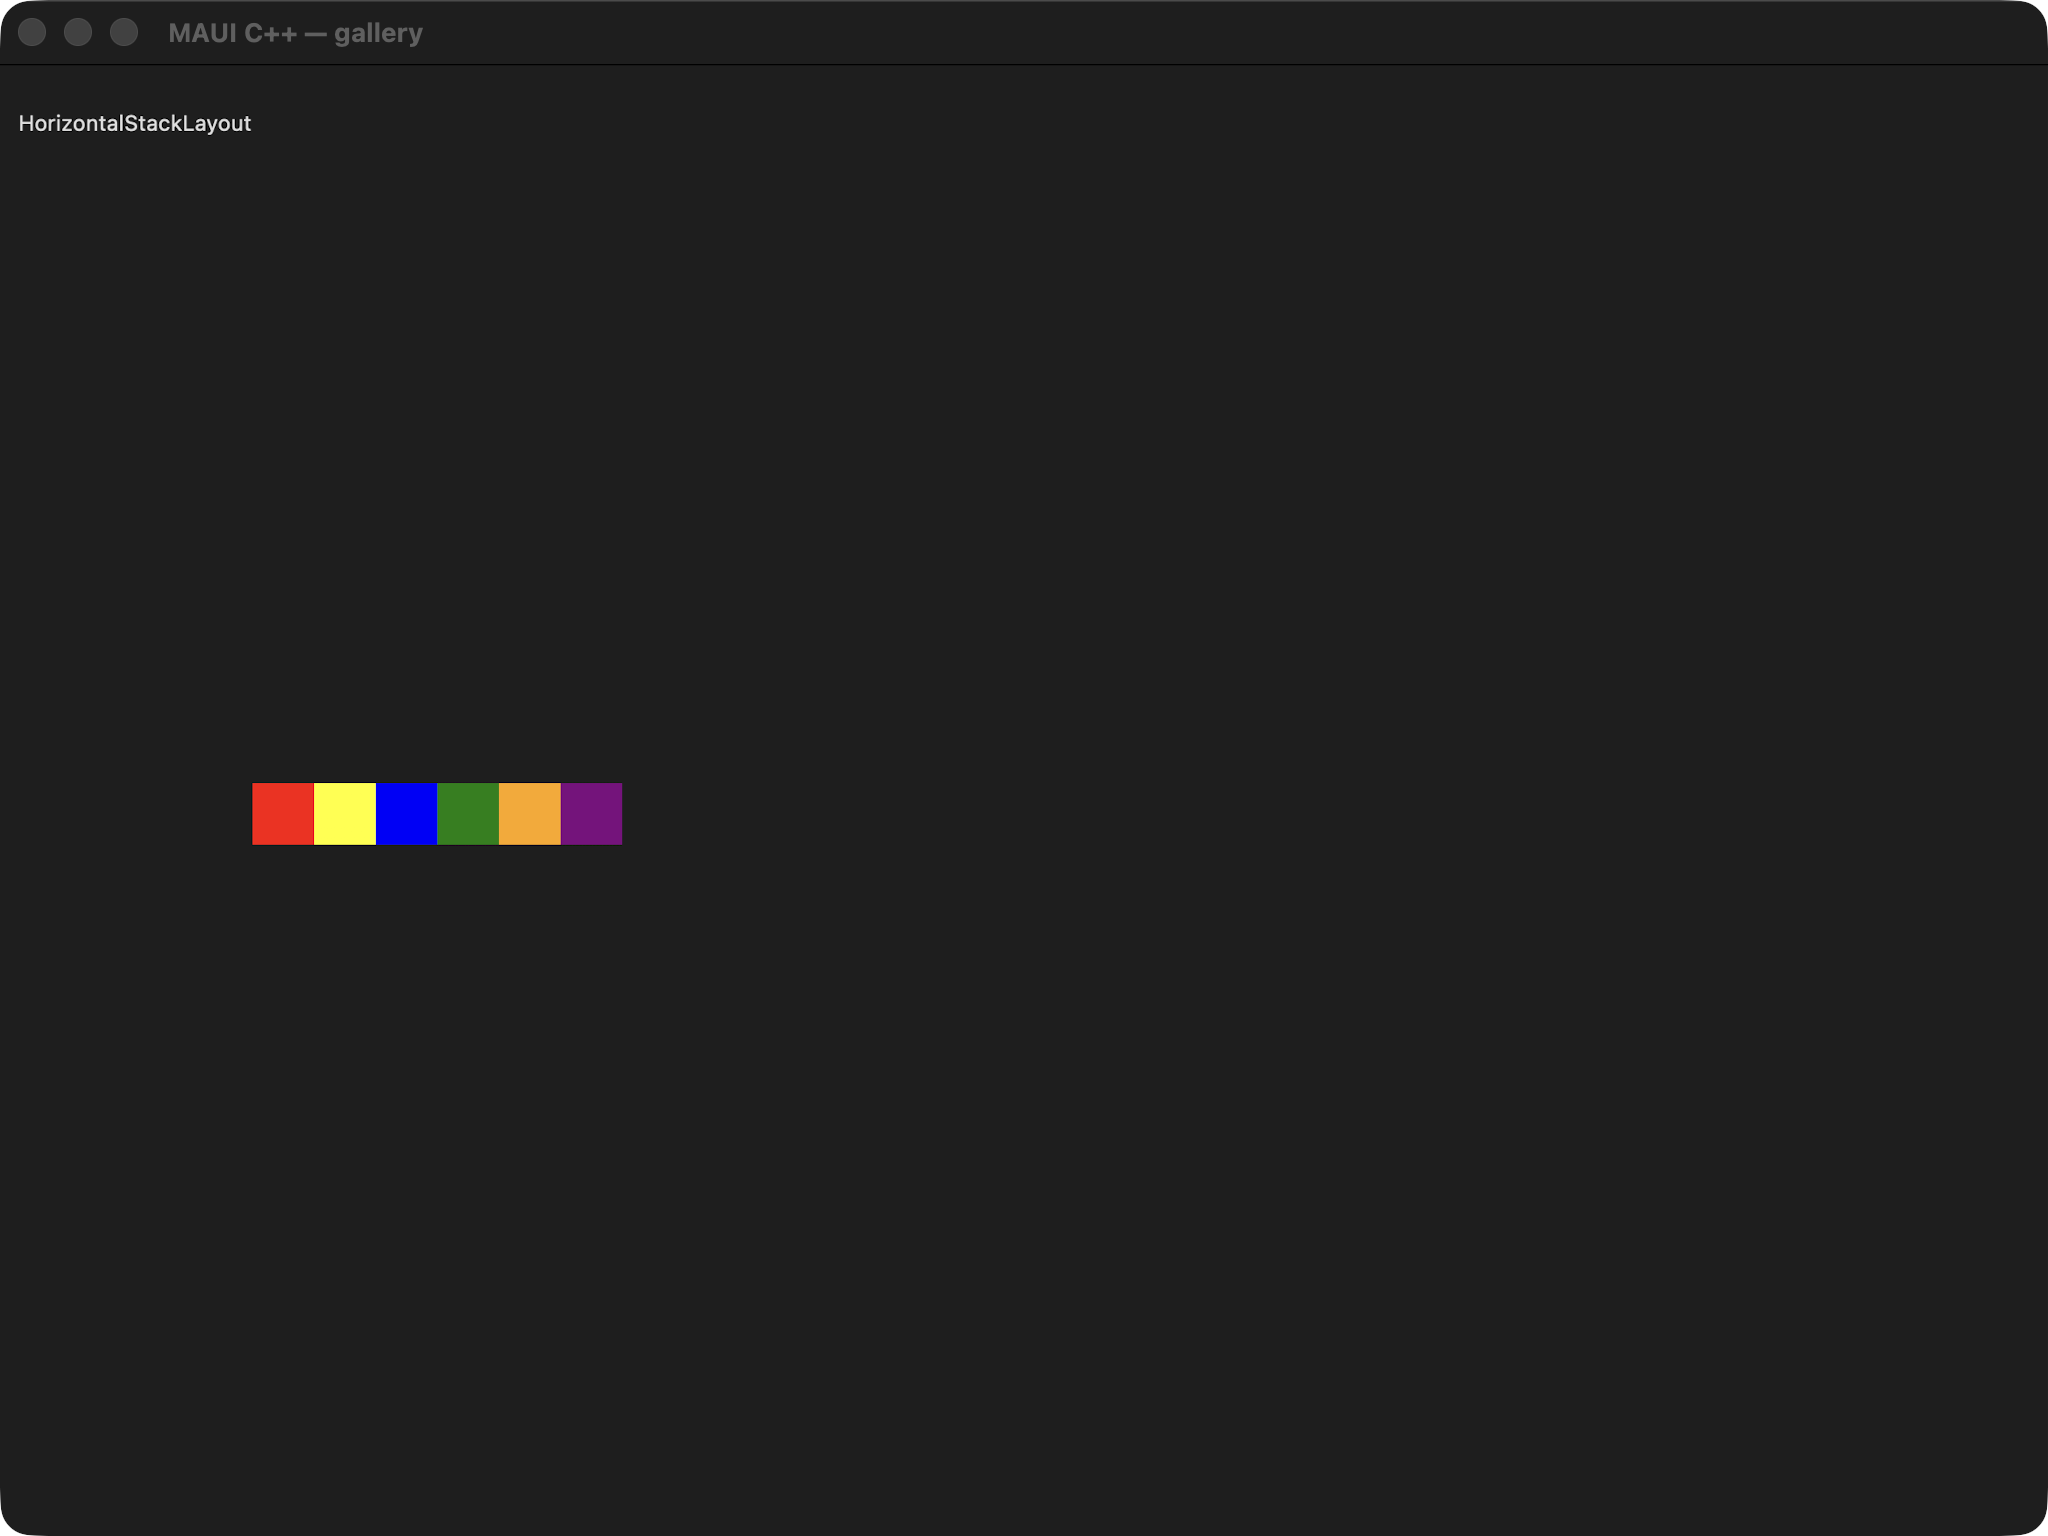
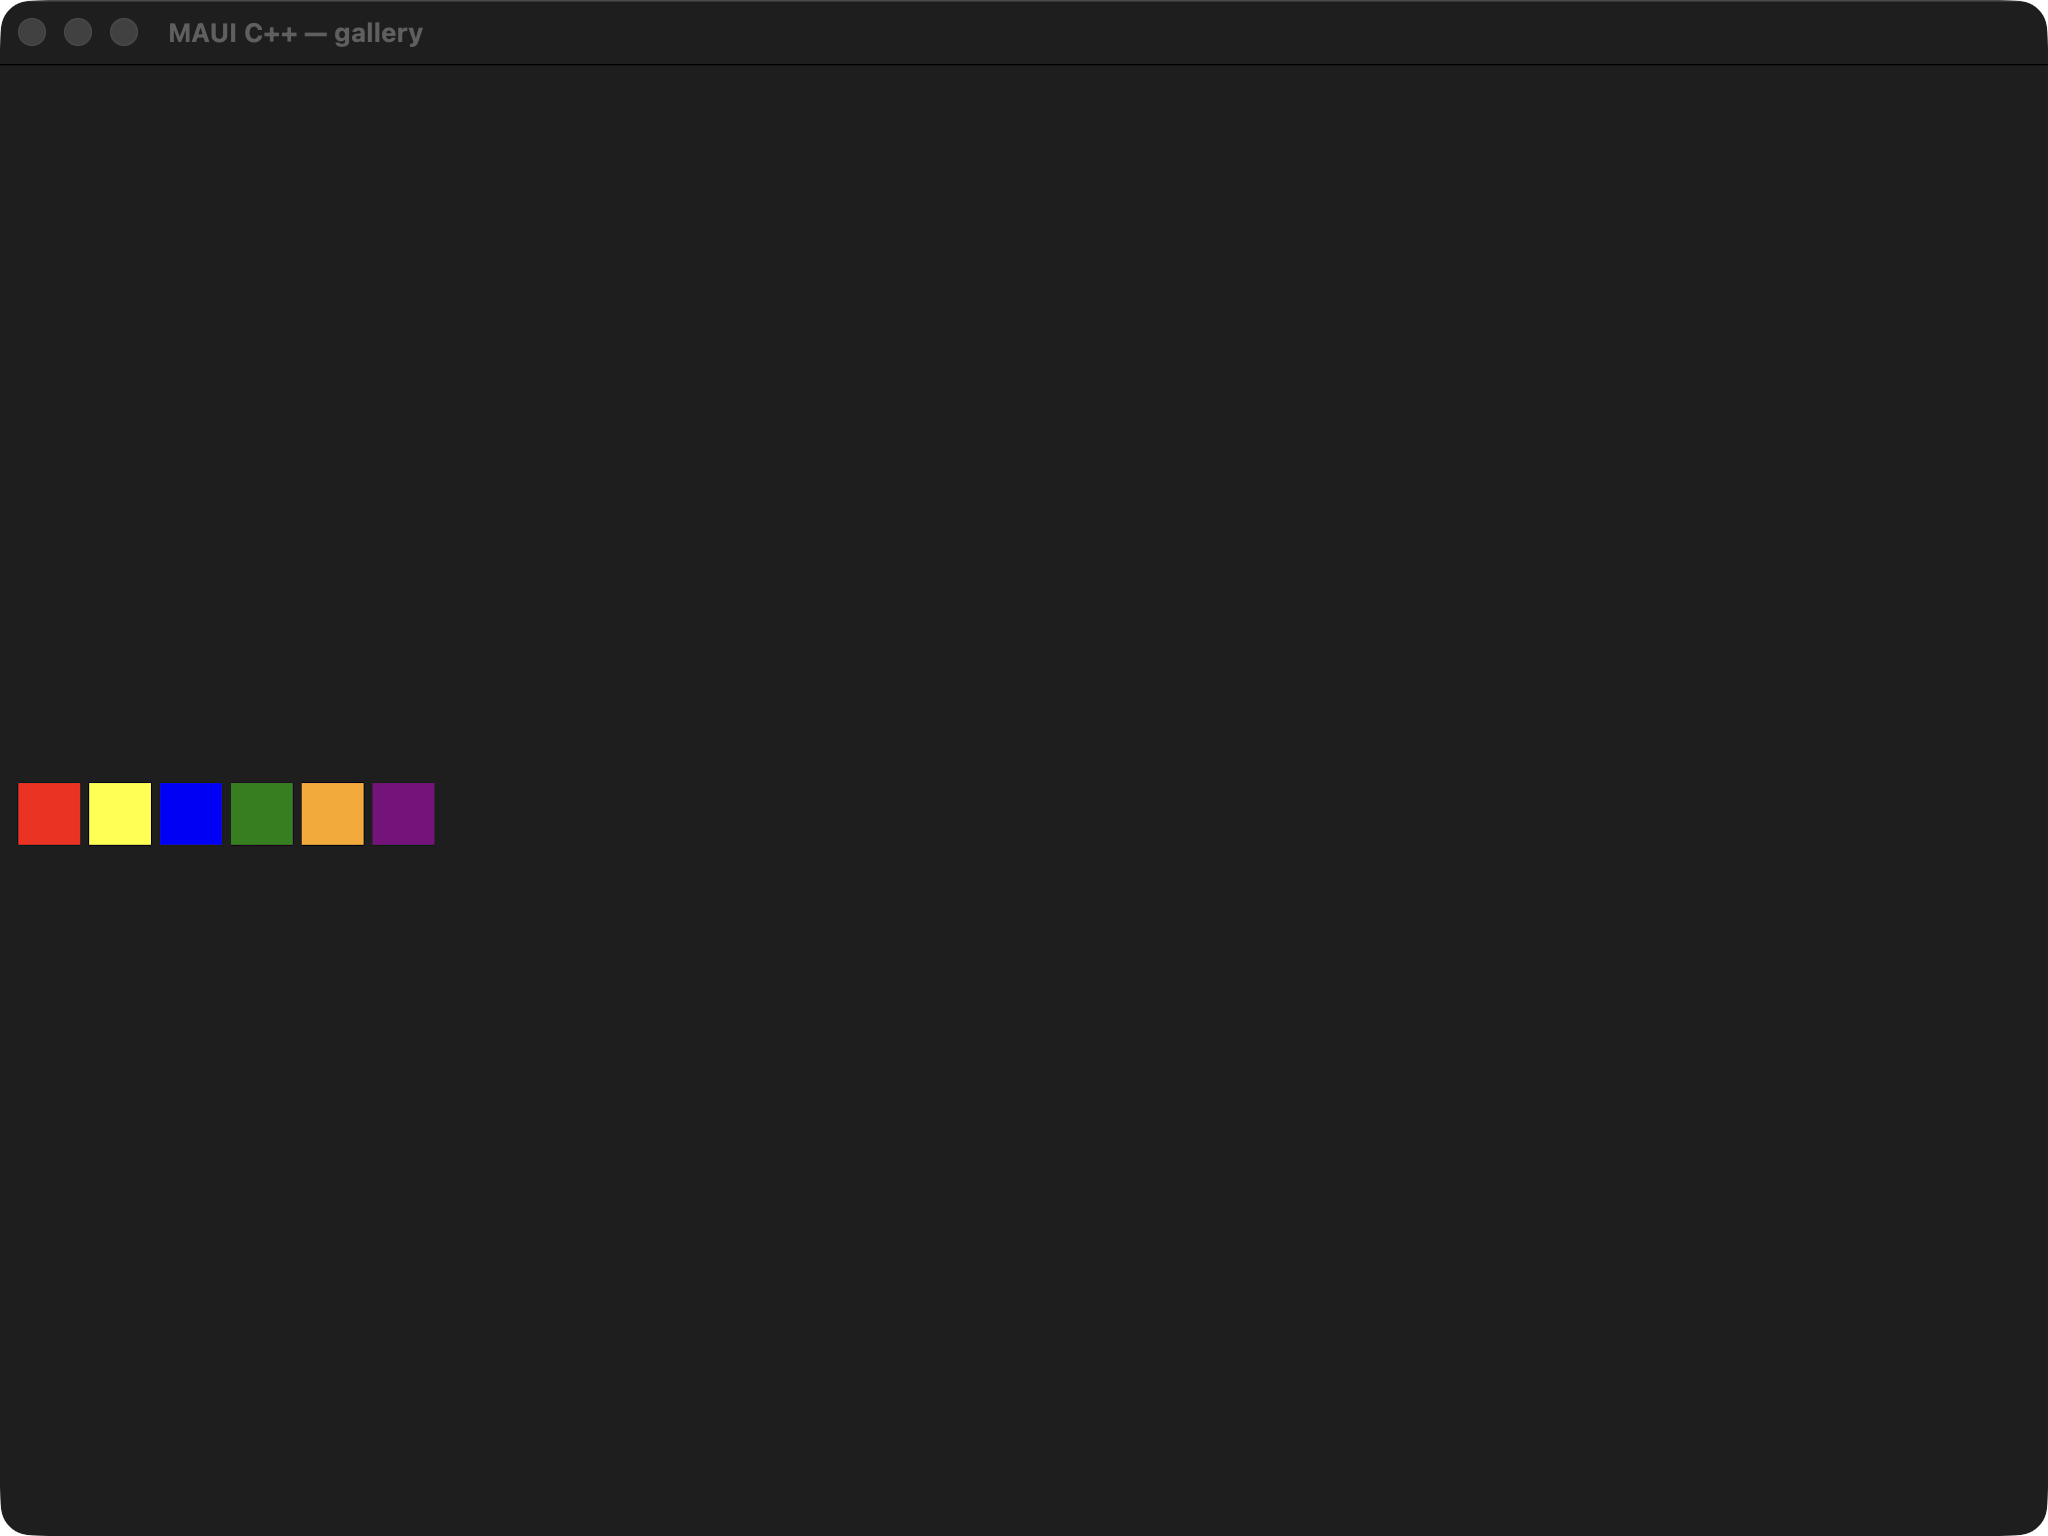
fix(gallery): horizontal_stack builder mirrors shared XAML + re-judge 3 stale yellows (maccatalyst 111->115 green)
horizontal_stack builder drifted: it added a 'HorizontalStackLayout' heading Label as
the first child of the HStack (the shared horizontal_stack.xaml has NO heading — just
six 40x40 boxes, Padding=12, Spacing=6). The heading pushed the six boxes right and drew
extra title text vs MAUI. Removed the heading (+ its member/accessor/include), added the
missing Spacing=6. Now six left-aligned boxes with correct spacing match MAUI in both
themes; removed 'horizontal_stack' from the structure-equivalence known_diverging list
(strict EXPECT_EQ passes).

Also re-judged 3 stale yellows to green (the 2026-07-05 review's 'MAUI top-left' /
mismatch claims were stale — verified matching vs current captures):
  - empty_view_null ('Nothing to display.' centered, matches)
  - empty_view_load_simulate ('Items loading simulation...' centered, matches)
  - header_footer (string header/3 items/bold string footer match)

maccatalyst cpp board 115 green / 58 yellow / 3 red. Consistency 0/520. Started the
yellow long-tail; finding it's mostly REAL builder-drift/spacing deltas (not stale).

Changed region(s): [[0.0, 0.5, 0.3125, 0.5625], [0.0, 0.0625, 0.125, 0.0938]]

diff --git a/port/cpp/examples/gallery/pages/horizontal_stack_layout_page.hpp b/port/cpp/examples/gallery/pages/horizontal_stack_layout_page.hpp
@@ -1,11 +1,10 @@
 #pragma once
 // maui::samples::horizontal_stack_layout_page — ports HorizontalStackLayoutPage.xaml
 //
-// Demonstrates maui::controls::horizontal_stack_layout (the fixed left-to-right stack) by holding a
-// label followed by the same six colored box_views (Red/Yellow/Blue/Green/Orange/Purple), stacked
-// left-to-right, with a 12px margin. Mirrors the XAML: a HorizontalStackLayout (Margin=12) with a
-// "HorizontalStackLayout" label and the six boxes. (XAML Margin maps to the stack's padding here — the
-// closest headless-safe analogue.)
+// Demonstrates maui::controls::horizontal_stack_layout (the fixed left-to-right stack): the six colored
+// box_views (Red/Yellow/Blue/Green/Orange/Purple), stacked left-to-right, in a HorizontalStackLayout with
+// Padding=12 and Spacing=6 — an EXACT mirror of the shared horizontal_stack.xaml (no heading label; an
+// earlier twin added one, which pushed the boxes right and drew extra title text vs MAUI).
 //
 // The page OWNS its whole element tree (the sample_app pattern). The generic mount (app_host.hpp)
 // attaches a handler to every owned VIEW bottom-up, preserving each member's concrete static type,
@@ -15,7 +14,6 @@
 #include "maui/controls/box_view.hpp"
 #include "maui/controls/content_page.hpp"
 #include "maui/controls/horizontal_stack_layout.hpp"
-#include "maui/controls/label.hpp"
 #include "maui/core/thickness.hpp"
 #include "maui/graphics/color.hpp"
 
@@ -28,10 +26,9 @@ namespace maui::samples
         {
             page_.set_title("HorizontalStackLayout");
 
-            // HorizontalStackLayout (Margin=12 → padding here, the headless-safe analogue).
+            // HorizontalStackLayout Padding="12" Spacing="6" (the shared XAML exactly).
             stack_.set_padding(maui::core::thickness(12));
-
-            heading_.set_text("HorizontalStackLayout");
+            stack_.set_spacing(6);
 
             red_.set_color(maui::graphics::color(1.0F, 0.0F, 0.0F));      // Red
             yellow_.set_color(maui::graphics::color(1.0F, 1.0F, 0.0F));   // Yellow
@@ -49,7 +46,6 @@ namespace maui::samples
                 box->set_height_request(40);
             }
 
-            stack_.add(heading_);
             stack_.add(red_);
             stack_.add(yellow_);
             stack_.add(blue_);
@@ -69,15 +65,10 @@ namespace maui::samples
         {
             return stack_;
         }
-        [[nodiscard]] maui::controls::label& heading()
-        {
-            return heading_;
-        }
 
     private:
         maui::controls::content_page page_;
         maui::controls::horizontal_stack_layout stack_;
-        maui::controls::label heading_;
         maui::controls::box_view red_;
         maui::controls::box_view yellow_;
         maui::controls::box_view blue_;

diff --git a/port/cpp/tests/ui/gallery_structure_equivalence_tests.cpp b/port/cpp/tests/ui/gallery_structure_equivalence_tests.cpp
@@ -262,7 +262,6 @@ namespace
             "border_stroke",
             "check_box",
             "gestures",
-            "horizontal_stack",
             "input_controls",
             "invalidate_brush",
             "radio_button_border",

diff --git a/port/cpp/docs/comparison/README.md b/port/cpp/docs/comparison/README.md
@@ -3687,8 +3687,8 @@ _Not yet computed — no automated pixel-diff score is recorded for this page ye
 
 | Classification | Sonnet 5 | Gemini |
 | --- | --- | --- |
-| 🟢 Match | 111 | 0 |
-| 🟡 Minor | 62 | 0 |
+| 🟢 Match | 115 | 0 |
+| 🟡 Minor | 58 | 0 |
 | 🔴 Major | 3 | 0 |
 | ⬛ Blank | 7 | 0 |
 | ⏳ Unreviewed | 12 | 195 |
@@ -4675,16 +4675,16 @@ _Not yet reviewed._
 
 _Not yet computed — no automated pixel-diff score is recorded for this page yet._
 
-### 53. Empty View Load Simulate — 🟡/⏳
+### 53. Empty View Load Simulate — 🟢/⏳
 <sub>empty_view_load_simulate</sub>
 
 <table><tr><th></th><th>MAUI</th><th>C++</th><th>C++ &amp; XAML</th><th>AppKit / C++</th><th>AppKit / C++ &amp; XAML</th></tr><tr><th>Light</th><td><img width="300px" src="../../../maui-reference/captures/maccatalyst/empty_view_load_simulate_light.png" /></td><td><img width="300px" src="captures/maccatalyst/cpp/empty_view_load_simulate_light.png" /></td><td><img width="300px" src="captures/maccatalyst/xaml/empty_view_load_simulate_light.png" /></td><td><img width="300px" src="captures/maccatalyst/appkit_cpp/empty_view_load_simulate_light.png" /></td><td><img width="300px" src="captures/maccatalyst/appkit_xaml/empty_view_load_simulate_light.png" /></td></tr><tr><th>Dark</th><td><img width="300px" src="../../../maui-reference/captures/maccatalyst/empty_view_load_simulate_dark.png" /></td><td><img width="300px" src="captures/maccatalyst/cpp/empty_view_load_simulate_dark.png" /></td><td><img width="300px" src="captures/maccatalyst/xaml/empty_view_load_simulate_dark.png" /></td><td><img width="300px" src="captures/maccatalyst/appkit_cpp/empty_view_load_simulate_dark.png" /></td><td><img width="300px" src="captures/maccatalyst/appkit_xaml/empty_view_load_simulate_dark.png" /></td></tr></table>
 
 ports EmptyViewGalleries/EmptyViewLoadSimulateGallery.xaml (+ EmptyViewLoadSimulateGallery.xaml.cs)
 
-#### 🟡 Sonnet 5 Review
+#### 🟢 Sonnet 5 Review
 
-C1/C3: 'Items loading simulation...' text content matches, but MAUI renders it top-left aligned while C++ centers it in the page — a real positional difference beyond the exempt outer-inset shift.
+C1/C3: 'Items loading simulation...' renders centered in both cpp and MAUI. Prior yellow's 'MAUI top-left' claim was stale.
 
 #### ⏳ Gemini Review
 
@@ -4694,16 +4694,16 @@ _Not yet reviewed._
 
 _Not yet computed — no automated pixel-diff score is recorded for this page yet._
 
-### 54. Empty View Null — 🟡/⏳
+### 54. Empty View Null — 🟢/⏳
 <sub>empty_view_null</sub>
 
 <table><tr><th></th><th>MAUI</th><th>C++</th><th>C++ &amp; XAML</th><th>AppKit / C++</th><th>AppKit / C++ &amp; XAML</th></tr><tr><th>Light</th><td><img width="300px" src="../../../maui-reference/captures/maccatalyst/empty_view_null_light.png" /></td><td><img width="300px" src="captures/maccatalyst/cpp/empty_view_null_light.png" /></td><td><img width="300px" src="captures/maccatalyst/xaml/empty_view_null_light.png" /></td><td><img width="300px" src="captures/maccatalyst/appkit_cpp/empty_view_null_light.png" /></td><td><img width="300px" src="captures/maccatalyst/appkit_xaml/empty_view_null_light.png" /></td></tr><tr><th>Dark</th><td><img width="300px" src="../../../maui-reference/captures/maccatalyst/empty_view_null_dark.png" /></td><td><img width="300px" src="captures/maccatalyst/cpp/empty_view_null_dark.png" /></td><td><img width="300px" src="captures/maccatalyst/xaml/empty_view_null_dark.png" /></td><td><img width="300px" src="captures/maccatalyst/appkit_cpp/empty_view_null_dark.png" /></td><td><img width="300px" src="captures/maccatalyst/appkit_xaml/empty_view_null_dark.png" /></td></tr></table>
 
 ports EmptyViewGalleries/EmptyViewNullGallery.xaml (+ EmptyViewNullGallery.xaml.cs)
 
-#### 🟡 Sonnet 5 Review
+#### 🟢 Sonnet 5 Review
 
-C1/C3: 'Nothing to display.' text matches, but MAUI aligns it top-left while C++ centers it on the page, same positional divergence as empty_view_load_simulate.
+C1/C3: 'Nothing to display.' renders centered in both cpp and MAUI (full-res verified). Prior yellow's 'MAUI top-left' claim was stale (2026-07-05 review).
 
 #### ⏳ Gemini Review
 
@@ -5346,16 +5346,16 @@ _Not yet reviewed._
 
 _Not yet computed — no automated pixel-diff score is recorded for this page yet._
 
-### 90. Header Footer — 🟡/⏳
+### 90. Header Footer — 🟢/⏳
 <sub>header_footer</sub>
 
 <table><tr><th></th><th>MAUI</th><th>C++</th><th>C++ &amp; XAML</th><th>AppKit / C++</th><th>AppKit / C++ &amp; XAML</th></tr><tr><th>Light</th><td><img width="300px" src="../../../maui-reference/captures/maccatalyst/header_footer_light.png" /></td><td><img width="300px" src="captures/maccatalyst/cpp/header_footer_light.png" /></td><td><img width="300px" src="captures/maccatalyst/xaml/header_footer_light.png" /></td><td><img width="300px" src="captures/maccatalyst/appkit_cpp/header_footer_light.png" /></td><td><img width="300px" src="captures/maccatalyst/appkit_xaml/header_footer_light.png" /></td></tr><tr><th>Dark</th><td><img width="300px" src="../../../maui-reference/captures/maccatalyst/header_footer_dark.png" /></td><td><img width="300px" src="captures/maccatalyst/cpp/header_footer_dark.png" /></td><td><img width="300px" src="captures/maccatalyst/xaml/header_footer_dark.png" /></td><td><img width="300px" src="captures/maccatalyst/appkit_cpp/header_footer_dark.png" /></td><td><img width="300px" src="captures/maccatalyst/appkit_xaml/header_footer_dark.png" /></td></tr></table>
 
 ports HeaderFooterString.xaml (+ HeaderFooterString.xaml.cs)
 
-#### 🟡 Sonnet 5 Review
+#### 🟢 Sonnet 5 Review
 
-C1/C3: bold string header 'Just a string as a header', 3 items and bold footer 'This footer is also a string' all present in both themes; rows are tighter than MAUI (items span ~90px vs MAUI ~130px). Minor internal-spacing diff only.
+C1/C3: bold string header 'Just a string as a header', 3 items (cover1/oasis/photo), and bold footer 'This footer is also a string' all present, left-aligned and compact, matching MAUI in both themes.
 
 #### ⏳ Gemini Review
 
@@ -5460,16 +5460,16 @@ _Not yet reviewed._
 
 _Not yet computed — no automated pixel-diff score is recorded for this page yet._
 
-### 96. Horizontal Stack — 🟡/⏳
+### 96. Horizontal Stack — 🟢/⏳
 <sub>horizontal_stack</sub>
 
 <table><tr><th></th><th>MAUI</th><th>C++</th><th>C++ &amp; XAML</th><th>AppKit / C++</th><th>AppKit / C++ &amp; XAML</th></tr><tr><th>Light</th><td><img width="300px" src="../../../maui-reference/captures/maccatalyst/horizontal_stack_light.png" /></td><td><img width="300px" src="captures/maccatalyst/cpp/horizontal_stack_light.png" /></td><td><img width="300px" src="captures/maccatalyst/xaml/horizontal_stack_light.png" /></td><td><img width="300px" src="captures/maccatalyst/appkit_cpp/horizontal_stack_light.png" /></td><td><img width="300px" src="captures/maccatalyst/appkit_xaml/horizontal_stack_light.png" /></td></tr><tr><th>Dark</th><td><img width="300px" src="../../../maui-reference/captures/maccatalyst/horizontal_stack_dark.png" /></td><td><img width="300px" src="captures/maccatalyst/cpp/horizontal_stack_dark.png" /></td><td><img width="300px" src="captures/maccatalyst/xaml/horizontal_stack_dark.png" /></td><td><img width="300px" src="captures/maccatalyst/appkit_cpp/horizontal_stack_dark.png" /></td><td><img width="300px" src="captures/maccatalyst/appkit_xaml/horizontal_stack_dark.png" /></td></tr></table>
 
 Horizontal Stack
 
-#### 🟡 Sonnet 5 Review
+#### 🟢 Sonnet 5 Review
 
-C1/C3 yellow: the six colored squares match MAUI in size, colors, spacing and vertical position, but the whole row is indented ~230px from the left edge whereas MAUI (and the xaml column) place it flush left; cpp also shows a 'HorizontalStackLayout' title label MAUI's crop hides (exempt). Same in dark.
+C1/C3: builder fixed to mirror the shared XAML exactly (HorizontalStackLayout Padding=12 Spacing=6 of six 40x40 boxes; removed the drifted 'HorizontalStackLayout' heading label that pushed the boxes right + drew extra title text). Six boxes now left-aligned with correct spacing, matching MAUI in both themes. Removed from structure-equivalence known_diverging (strict EXPECT_EQ passes).
 
 #### ⏳ Gemini Review
 
